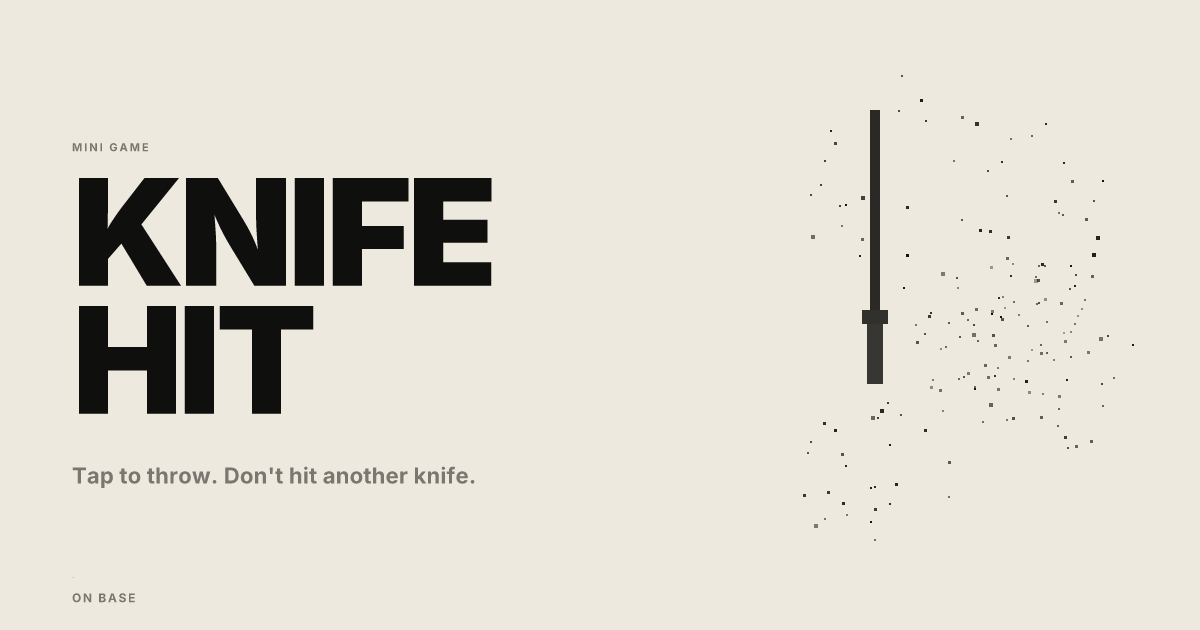
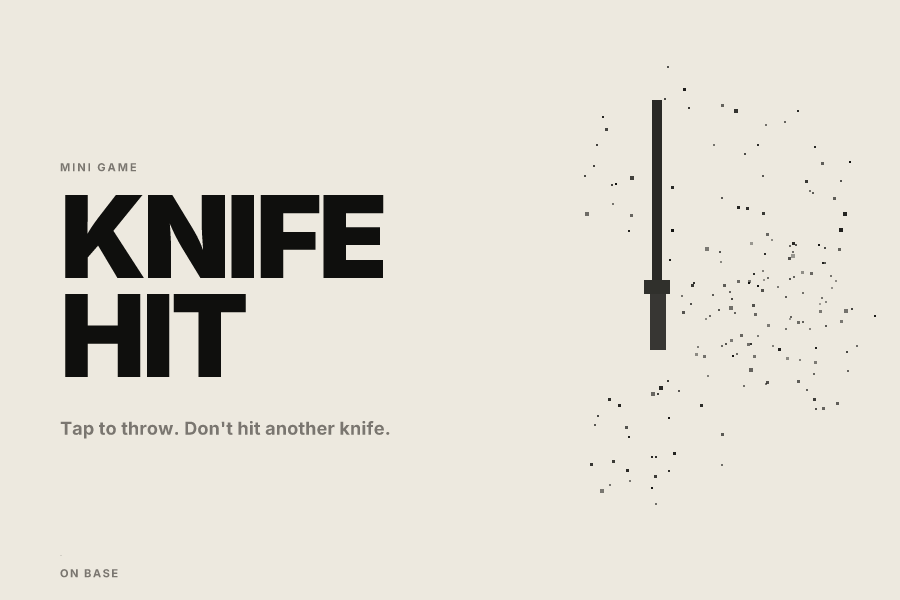
Fix embed image to 3:2 ratio (900x600) for Farcaster miniapp
Farcaster miniapp imageUrl requires 3:2 aspect ratio.
Previous 1200x630 (1.91:1) caused content to overflow the frame.

diff --git a/src/app/opengraph-image/route.tsx b/src/app/opengraph-image/route.tsx
@@ -3,15 +3,15 @@ import { loadFonts, dotCluster, BG, INK, MUTED } from '@/lib/og-helpers';
 
 export const runtime = 'edge';
 
-
 export async function GET() {
   const fonts = await loadFonts();
-  const W = 1200, H = 630;
+  // 3:2 ratio required for Farcaster miniapp embed imageUrl
+  const W = 900, H = 600;
 
   const dots = [
-    ...dotCluster(960, 200, 50, 160, 2),
-    ...dotCluster(1050, 360, 35, 100, 8),
-    ...dotCluster(880, 480, 28, 80, 14),
+    ...dotCluster(720, 180, 50, 145, 2),
+    ...dotCluster(800, 330, 35, 90, 8),
+    ...dotCluster(660, 450, 28, 72, 14),
   ];
 
   return new ImageResponse(
@@ -29,13 +29,13 @@ export async function GET() {
         }} />
       ))}
 
-      {/* Knife visual  Eright area */}
-      <div style={{ position: 'absolute', left: 870, top: 110, width: 10, height: 200, background: INK, opacity: 0.88 }} />
-      <div style={{ position: 'absolute', left: 862, top: 310, width: 26, height: 14, background: INK, opacity: 0.85 }} />
-      <div style={{ position: 'absolute', left: 867, top: 324, width: 16, height: 60, background: INK, opacity: 0.82 }} />
+      {/* Knife visual */}
+      <div style={{ position: 'absolute', left: 652, top: 100, width: 10, height: 180, background: INK, opacity: 0.88 }} />
+      <div style={{ position: 'absolute', left: 644, top: 280, width: 26, height: 14, background: INK, opacity: 0.85 }} />
+      <div style={{ position: 'absolute', left: 650, top: 294, width: 16, height: 56, background: INK, opacity: 0.82 }} />
 
-      {/* Log circle dots  Eright area */}
-      {dotCluster(1000, 340, 60, 95, 20).map((d, i) => (
+      {/* Log circle dots */}
+      {dotCluster(760, 310, 60, 88, 20).map((d, i) => (
         <div key={`log-${i}`} style={{
           position: 'absolute',
           left: d.x - d.size / 2,
@@ -48,27 +48,27 @@ export async function GET() {
       ))}
 
       {/* Left text area */}
-      <div style={{ position: 'absolute', left: 72, top: 0, bottom: 0, display: 'flex', flexDirection: 'column', justifyContent: 'center' }}>
-        <div style={{ fontSize: 11, fontWeight: 700, color: MUTED, letterSpacing: '0.18em', fontFamily: 'Inter', textTransform: 'uppercase', marginBottom: 20, display: 'flex' }}>
+      <div style={{ position: 'absolute', left: 60, top: 0, bottom: 0, display: 'flex', flexDirection: 'column', justifyContent: 'center' }}>
+        <div style={{ fontSize: 11, fontWeight: 700, color: MUTED, letterSpacing: '0.18em', fontFamily: 'Inter', textTransform: 'uppercase', marginBottom: 18, display: 'flex' }}>
           Mini Game
         </div>
         <div style={{ display: 'flex', flexDirection: 'column' }}>
-          <div style={{ fontSize: 148, fontWeight: 900, color: INK, lineHeight: 0.86, fontFamily: 'Inter', letterSpacing: '-0.035em', display: 'flex' }}>
+          <div style={{ fontSize: 114, fontWeight: 900, color: INK, lineHeight: 0.86, fontFamily: 'Inter', letterSpacing: '-0.035em', display: 'flex' }}>
             KNIFE
           </div>
-          <div style={{ fontSize: 148, fontWeight: 900, color: INK, lineHeight: 0.86, fontFamily: 'Inter', letterSpacing: '-0.035em', display: 'flex' }}>
+          <div style={{ fontSize: 114, fontWeight: 900, color: INK, lineHeight: 0.86, fontFamily: 'Inter', letterSpacing: '-0.035em', display: 'flex' }}>
             HIT
           </div>
         </div>
-        <div style={{ marginTop: 32, fontSize: 22, fontWeight: 700, color: MUTED, fontFamily: 'Inter', letterSpacing: '0.01em', display: 'flex' }}>
+        <div style={{ marginTop: 28, fontSize: 18, fontWeight: 700, color: MUTED, fontFamily: 'Inter', letterSpacing: '0.01em', display: 'flex' }}>
           Tap to throw. Don't hit another knife.
         </div>
       </div>
 
-      {/* Bottom divider line */}
-      <div style={{ position: 'absolute', bottom: 52, left: 72, right: 72, height: 1, background: INK, opacity: 0.12 }} />
-      <div style={{ position: 'absolute', bottom: 24, left: 72, display: 'flex' }}>
-        <div style={{ fontSize: 12, fontWeight: 700, color: MUTED, fontFamily: 'Inter', letterSpacing: '0.14em', textTransform: 'uppercase', display: 'flex' }}>
+      {/* Bottom divider */}
+      <div style={{ position: 'absolute', bottom: 44, left: 60, right: 60, height: 1, background: INK, opacity: 0.12 }} />
+      <div style={{ position: 'absolute', bottom: 20, left: 60, display: 'flex' }}>
+        <div style={{ fontSize: 11, fontWeight: 700, color: MUTED, fontFamily: 'Inter', letterSpacing: '0.14em', textTransform: 'uppercase', display: 'flex' }}>
           On Base
         </div>
       </div>